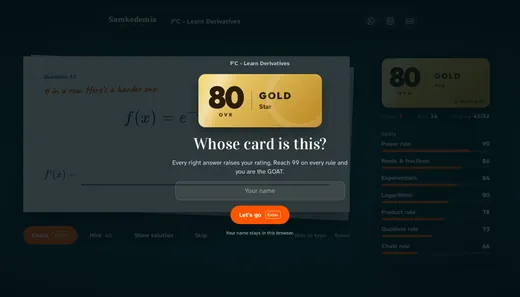
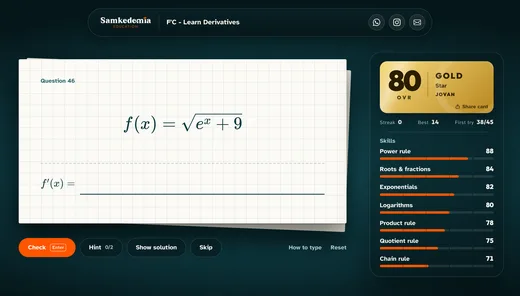
Hero: course chip in title, Get Your Study Plan CTA, faces under button, aligned load animations; centered header pill; new F'C screenshot

diff --git a/index.html b/index.html
@@ -25,7 +25,7 @@
     <link rel="preconnect" href="https://fonts.googleapis.com">
     <link rel="preconnect" href="https://fonts.gstatic.com" crossorigin>
     <link
-        href="https://fonts.googleapis.com/css2?family=Atkinson+Hyperlegible:ital,wght@0,400;0,700;1,400&family=Outfit:wght@700;900&family=Playfair+Display:ital@1&family=Vidaloka&display=swap"
+        href="https://fonts.googleapis.com/css2?family=Atkinson+Hyperlegible:ital,wght@0,400;0,700;1,400&family=Outfit:wght@700;900&family=Vidaloka&display=swap"
         rel="stylesheet">
     <style>
         :root {
@@ -1373,7 +1373,7 @@
         @media (min-width: 769px) {
             header.scrolled .hamburger-btn {
                 display: flex;
-                animation: hamburgerFadeIn 0.12s ease 0.18s both;
+                animation: hamburgerFadeIn 0.18s ease 0.42s both;
                 position: absolute;
                 left: 50%;
                 top: 50%;
@@ -1742,7 +1742,7 @@
 
         /* ── One button at a time: the header's appears once the hero's has scrolled away ── */
         .header-actions .btn-whatsapp {
-            max-width: 190px;
+            max-width: 260px;
             overflow: hidden;
             transform-origin: right center;
             transition:
@@ -1771,7 +1771,7 @@
                 visibility 0s linear 0.35s;
         }
         @media (max-width: 768px) {
-            .header-actions { --cta-gap: -18px; }
+            .header-actions { gap: 24px; --cta-gap: -24px; }
             .header-actions .btn-whatsapp { max-width: 46px; }
         }
         @media (prefers-reduced-motion: reduce) {
@@ -1895,21 +1895,12 @@
 
         /* ── Motion off: finished paper, still grid ── */
         @media (prefers-reduced-motion: reduce) {
-            .hero-title, .hero-subtitle, .hero .social-proof, .hero-actions, .hero-chat { animation: none; }
+            .hero-line > span, .hero-proof, .hero-title, .hero-subtitle, .hero .social-proof, .hero-actions, .hero-chat { animation: none; }
             .logo-scroller { animation: none !important; }
             .sr { opacity: 1; transform: none; transition: none; }
             .hero-cta { transition: none; }
         }
     
-        /* ── Italic accent (same Playfair italic as the post designs) ── */
-        .hero-title { margin-left: 0; font-weight: 400; }
-        .hero-em {
-            font-family: 'Playfair Display', serif;
-            font-style: italic;
-            font-weight: 400;
-            letter-spacing: -0.02em;
-        }
-
         /* ── Subtitle ── */
         .hero-subtitle {
             max-width: 560px;
@@ -2062,6 +2053,115 @@
         @media (max-width: 540px) {
             .proof-wall.moving { height: 540px; margin-top: 24px; overflow: hidden; }
         }
+    
+        /* ── Hero type: one serif statement, one sans for the rest ── */
+        .hero-title {
+            margin: 0 0 1.4rem;
+            font-family: var(--font-title);
+            font-weight: 400;
+            font-size: clamp(3.3rem, 7.2vw, 6.9rem);
+            line-height: 0.98;
+            letter-spacing: -0.025em;
+            animation: none;
+        }
+        .hero-line {
+            display: block;
+            overflow: hidden;
+            padding-bottom: 0.1em;
+            margin-bottom: -0.1em;
+        }
+        .hero-line > span {
+            display: inline-block;
+            transform: translateY(105%);
+            animation: hero-line 0.6s cubic-bezier(0.22, 1, 0.36, 1) forwards;
+        }
+        .hero-line:nth-child(2) > span { animation-delay: 0.09s; }
+        @keyframes hero-line {
+            from { transform: translateY(105%); }
+            to   { transform: none; }
+        }
+        .hero-subtitle {
+            max-width: 500px;
+            margin-top: 0;
+            font-size: clamp(1.1rem, 1.45vw, 1.28rem);
+            font-weight: 400;
+            line-height: 1.5;
+            color: var(--teal-mid);
+        }
+        .hero-actions { margin-top: 2rem; }
+        .hero-subtitle > span { display: block; white-space: nowrap; }
+        .hero-actions { display: inline-flex; flex-direction: column; align-items: center; }
+        .hero-faces { display: inline-flex; margin-right: 10px; }
+        .hero-faces img { width: 28px; height: 28px; border-radius: 50%; border: 2px solid #fff; object-fit: cover; box-shadow: 0 2px 6px rgba(12,56,64,.12); }
+        .hero-faces img + img { margin-left: -9px; }
+        .hero-proof {
+            display: flex; align-items: center; justify-content: center;
+            margin-top: 1.1rem;
+            font-size: 10px;
+            font-weight: 700;
+            text-transform: uppercase;
+            letter-spacing: 0.3em;
+            color: var(--teal-mid);
+            animation: hero-rise 0.5s cubic-bezier(0.22, 1, 0.36, 1) 0.3s both;
+        }
+        @media (max-width: 420px) {
+            .hero-subtitle { font-size: 0.98rem; }
+        }
+        @media (max-width: 350px) {
+            .hero-subtitle > span { white-space: normal; }
+        }
+        @media (prefers-reduced-motion: reduce) {
+            .hero-line > span { transform: none; animation: none; }
+        }
+        @media (max-width: 980px) {
+            .hero-title { font-size: clamp(3rem, 13vw, 5.6rem); margin: 0 0 1.1rem; }
+            .hero-subtitle { max-width: 420px; }
+            .hero-actions { margin-top: 1.6rem; }
+        }
+        /* Scrolled desktop pill: hamburger sits halfway between logo and button */
+        @media (min-width: 769px) {
+            header.scrolled .header-actions { flex: 1; gap: 0; --cta-gap: 0px; }
+            header.scrolled .hamburger-btn { position: static; transform: none; margin: 0 auto; }
+        }
+        /* ── Course chip inside the title ── */
+        .hero-copy { container-type: inline-size; }
+        .hero-title { font-size: min(6.9rem, 14cqi); }
+        .hero-title.shown .hero-line { overflow: visible; }
+        .hero-line > span { white-space: nowrap; }
+        .chip {
+            display: inline-flex; align-items: center; gap: 0.36em;
+            position: relative; top: -0.14em; vertical-align: middle;
+            font-size: 0.56em; height: 1.42em; padding: 0 0.5em 0 0.2em;
+            border-radius: 0.42em; background: #fff;
+            border: 1px solid rgba(12, 56, 64, 0.09);
+            box-shadow: 0 1px 2px rgba(12, 56, 64, 0.06), 0 8px 22px rgba(12, 56, 64, 0.09);
+            letter-spacing: -0.015em; overflow: hidden;
+        }
+        .chip-ic {
+            flex: none; position: relative; width: 1.08em; height: 1.08em; border-radius: 0.3em;
+            background: var(--teal-dark); color: #fff; overflow: hidden;
+        }
+        .chip-ic i { position: absolute; inset: 0; display: grid; place-items: center; font-size: 0.6em; line-height: 1; }
+        .chip-w { position: relative; flex: 1; height: 1.3em; overflow: hidden; }
+        .chip-w b { position: absolute; left: 0; right: 0; top: 0; text-align: center; font-weight: 400; line-height: 1.3em; white-space: nowrap; }
+        .chip-ic i, .chip-w b { transition: transform 0.55s cubic-bezier(0.22, 1, 0.36, 1), opacity 0.4s ease, filter 0.4s ease; }
+        .chip .in { transform: none; opacity: 1; filter: none; }
+        .chip .dn { transform: translateY(100%); opacity: 0; filter: blur(4px); }
+        .chip .up { transform: translateY(-100%); opacity: 0; filter: blur(4px); }
+        .chip .snap { transition: none; }
+
+        /* ── Load sequence: title, chip, subtitle, button, proof, reviews ── */
+        .hero-line:nth-child(2) > span { animation-delay: 0.08s; }
+        .hero-subtitle { animation: hero-rise 0.5s cubic-bezier(0.22, 1, 0.36, 1) 0.22s both; }
+        .hero-actions { animation: hero-rise 0.5s cubic-bezier(0.22, 1, 0.36, 1) 0.32s both; }
+        .hero-proof { animation: none; }
+        .hero-chat { animation: hero-rise 0.5s cubic-bezier(0.22, 1, 0.36, 1) 0.3s both; }
+        .chip { opacity: 0; transform: scale(0.82); width: 5.3em; }
+        .chip.on { opacity: 1; transform: none; transition: opacity 0.3s ease, transform 0.55s cubic-bezier(0.34, 1.45, 0.5, 1); }
+        @media (prefers-reduced-motion: reduce) {
+            .hero-subtitle, .hero-actions, .hero-chat { animation: none; }
+            .chip { opacity: 1; transform: none; }
+        }
     </style>
 </head>
 
@@ -2084,7 +2184,7 @@
                 <span></span>
             </button>
             <a href="https://wa.me/32490100821" target="_blank" class="btn-whatsapp">
-                <i class="bi bi-whatsapp"></i><span class="btn-label">Book Free Call</span>
+                <i class="bi bi-whatsapp"></i><span class="btn-label">Get Your Study Plan</span>
             </a>
         </div>
     </header>
@@ -2103,18 +2203,11 @@
         <canvas class="hero-grid" id="hero-grid" aria-hidden="true"></canvas>
         <div class="hero-main">
             <div class="hero-copy">
-                <a href="https://wa.me/32490100821" target="_blank" class="social-proof">
-                    <div class="social-proof-images">
-                        <img src="images/opt/student1.webp" alt="Student">
-                        <img src="images/opt/student2.webp" alt="Student">
-                        <img src="images/opt/student3.webp" alt="Student">
-                    </div>
-                    <span class="social-proof-text">200+ students passed. Join them.</span>
-                </a>
-                <h1 class="hero-title"><em class="hero-em">Result Driven</em><br>Tutoring.</h1>
-                <p class="hero-subtitle"><strong>Stop guessing what’s on the exam.</strong>I’ll show you exactly what it takes to pass.</p>
+                <h1 class="hero-title" aria-label="Result Driven Tutoring"><span class="hero-line" aria-hidden="true"><span>Result Driven</span></span><span class="hero-line" aria-hidden="true"><span><span class="chip" id="hero-chip"><span class="chip-ic"><i class="bi bi-graph-up in"></i><i class="bi bi-calculator dn"></i><i class="bi bi-bar-chart-line dn"></i><i class="bi bi-bar-chart-steps dn"></i><i class="bi bi-clipboard-data dn"></i><i class="bi bi-diagram-3 dn"></i></span><span class="chip-w"><b class="in">Math A</b><b class="dn">Math B</b><b class="dn">Stats 1</b><b class="dn">Stats 2</b><b class="dn">RM3</b><b class="dn">IMOR</b></span></span> Tutoring.</span></span></h1>
+                <p class="hero-subtitle"><span>Stop guessing what’s on the exam.</span><span>I’ll show you exactly what it takes to pass.</span></p>
                 <div class="hero-actions">
-                    <a href="https://wa.me/32490100821" target="_blank" class="hero-cta"><i class="bi bi-whatsapp"></i>Book Free Call</a>
+                    <a href="https://wa.me/32490100821" target="_blank" class="hero-cta"><i class="bi bi-whatsapp"></i>Get Your Study Plan</a>
+                    <p class="hero-proof"><span class="hero-faces"><img src="images/opt/student1.webp" alt="" width="28" height="28"><img src="images/opt/student2.webp" alt="" width="28" height="28"><img src="images/opt/student3.webp" alt="" width="28" height="28"></span>200+ students passed</p>
                 </div>
             </div>
             <div class="hero-chat" id="hero-chat" aria-hidden="true"></div>
@@ -4113,6 +4206,40 @@
 
 
     <script>
+        // Hero: swap the course in the title
+        (function() {
+            const chip = document.getElementById('hero-chip');
+            if (!chip) return;
+            const title = chip.closest('.hero-title');
+            const words = Array.from(chip.querySelectorAll('.chip-w b'));
+            const icons = Array.from(chip.querySelectorAll('.chip-ic i'));
+            const calm = window.matchMedia('(prefers-reduced-motion: reduce)').matches;
+            let k = 0;
+            function set(el, c) { el.classList.remove('in', 'dn', 'up'); el.classList.add(c); }
+            if (calm) { chip.classList.add('on'); title.classList.add('shown'); return; }
+            // Name and icon wait below until the chip has popped in
+            [words[0], icons[0]].forEach(function(el) { el.classList.add('snap'); set(el, 'dn'); });
+            const fonts = document.fonts ? document.fonts.ready : Promise.resolve();
+            const landed = new Promise(function(r) { setTimeout(r, 620); });
+            Promise.all([fonts, landed]).then(function() {
+                title.classList.add('shown');
+                chip.classList.add('on');
+                setTimeout(function() {
+                    [words[0], icons[0]].forEach(function(el) { el.classList.remove('snap'); set(el, 'in'); });
+                }, 160);
+                setInterval(function() {
+                    if (document.hidden) return;
+                    const o = k; k = (k + 1) % words.length;
+                    [words, icons].forEach(function(list) {
+                        set(list[o], 'up');
+                        const n = list[k];
+                        n.classList.add('snap'); set(n, 'dn'); void n.offsetWidth;
+                        n.classList.remove('snap'); set(n, 'in');
+                    });
+                }, 2400);
+            });
+        })();
+
         // Hero: magnetic graph-paper grid + student messages
         (function() {
             const hero = document.getElementById('hero');
@@ -4329,7 +4456,7 @@
                 let started = false;
                 new IntersectionObserver(function(e) {
                     chatVisible = e[0].isIntersecting;
-                    if (chatVisible && !started) { started = true; setTimeout(nextBubble, 250); }
+                    if (chatVisible && !started) { started = true; setTimeout(nextBubble, 700); }
                     else if (chatVisible && waiting) { waiting = false; nextBubble(); }
                 }, { threshold: 0.3 }).observe(chat);
                 document.addEventListener('visibilitychange', function() {
